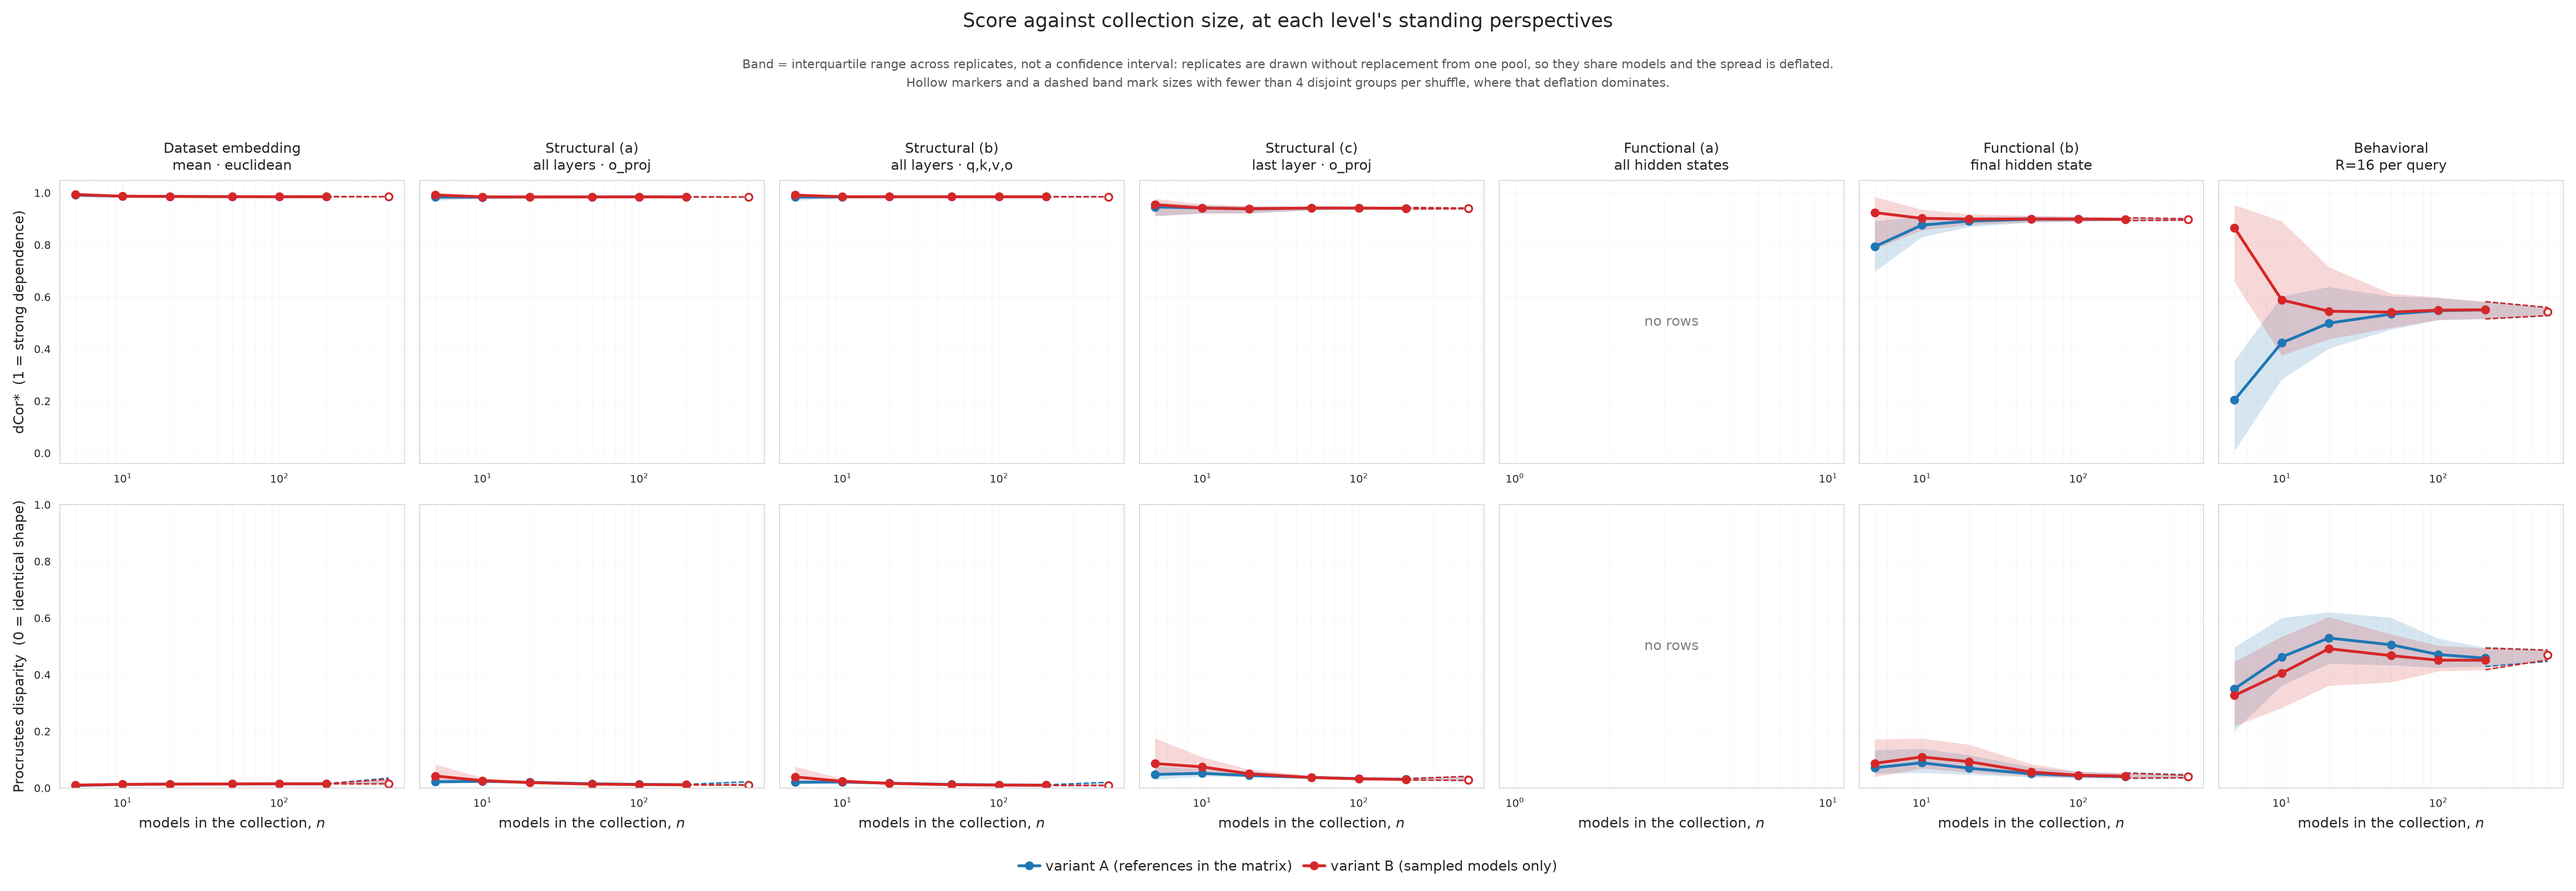
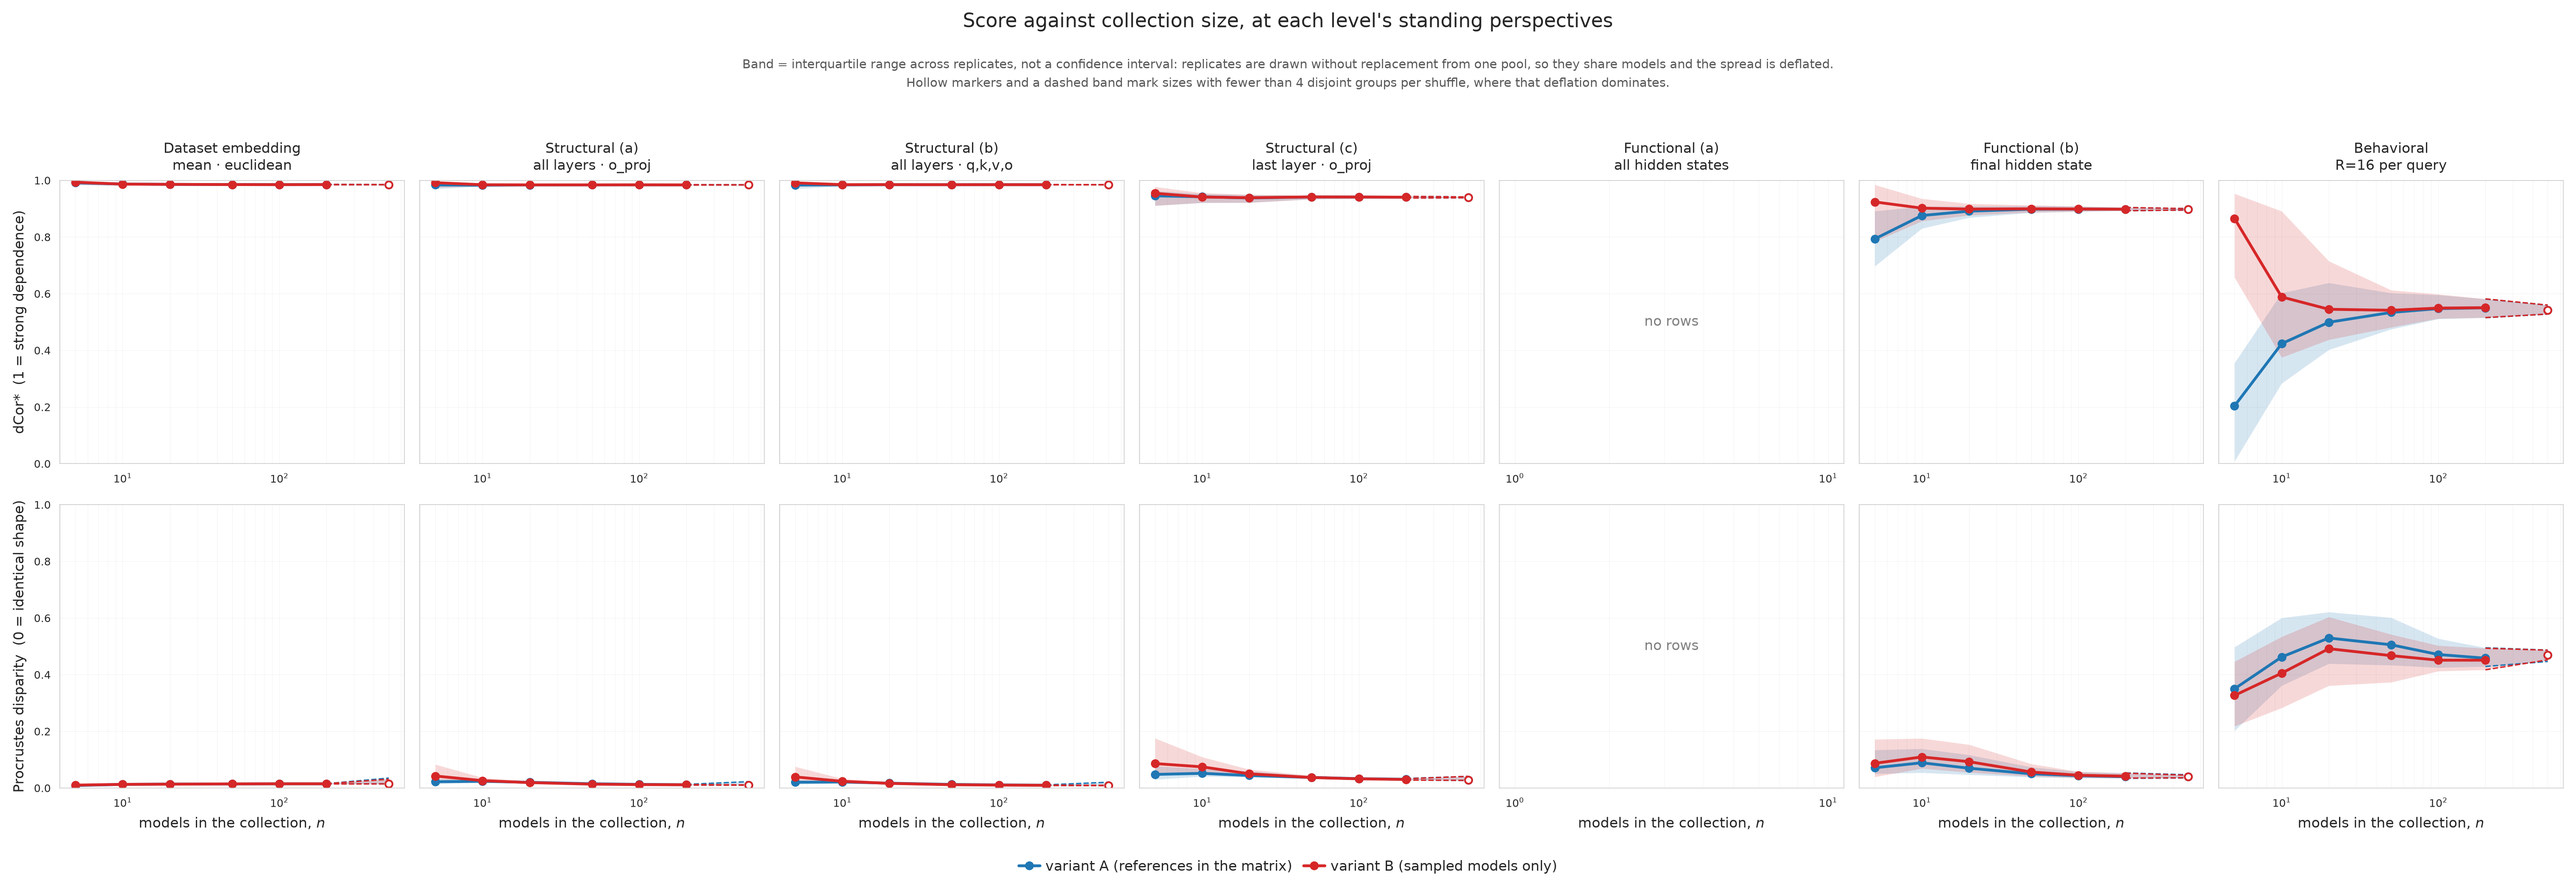
fix(figures): pin the dCor* axis to [0, 1] as well
Both estimators are bounded, so both now span their full range and the panels
are comparable to each other and to figures outside this one.

The cost is stated in the code rather than left to be discovered: dCor*
separates the flat perspectives by ~0.04 -- structural (a) at 0.984 against
(c) at 0.940 -- which is four percent of panel height on a full-range axis.
collection_size_summary.md is the table to read for that difference; the
figure carries the shape against n and the gap between levels, and both
survive the fixed range.

Claude-Session: https://claude.ai/code/session_01QJW7B1jQpczxCjoRXwiAg6

diff --git a/figures/simplex_collection_size/make_figures.py b/figures/simplex_collection_size/make_figures.py
@@ -96,13 +96,19 @@ SCORES = [
     ("disparity", "Procrustes disparity  (0 = identical shape)", False),
 ]
 
-#: Fixed y limits, per score row.  Procrustes disparity is pinned to its full
-#: ``[0, 1]`` range rather than auto-scaled: the estimator is bounded, so an
-#: autoscaled axis makes a level that never leaves 0.01 fill the panel exactly
-#: like one that reaches 0.5, and the panels stop being comparable to anything
-#: outside this figure.  dCor* is left to autoscale, which on this data already
-#: spans nearly the whole ``[0, 1]``.
-YLIM = {"disparity": (0.0, 1.0)}
+#: Fixed y limits, per score row.  Both estimators are pinned to their full
+#: ``[0, 1]`` range rather than auto-scaled, because both are bounded: an
+#: autoscaled axis makes a level that never leaves 0.01 fill its panel exactly
+#: like one that reaches 0.5, and the panels stop being comparable either to
+#: each other or to any figure outside this one.
+#:
+#: The cost is real and worth stating: dCor* separates the flat perspectives by
+#: ~0.04 (structural (a) at 0.984 against (c) at 0.940), and on a full-range
+#: axis that difference is four percent of the panel height.  It is legible in
+#: ``collection_size_summary.md``, which is the table to read for it.  The
+#: figure's job here is the shape of each curve against ``n`` and the gap
+#: between the levels, and both survive the fixed range.
+YLIM = {"dcor": (0.0, 1.0), "disparity": (0.0, 1.0)}
 
 
 def read_rows(path: Path) -> list[dict]:
